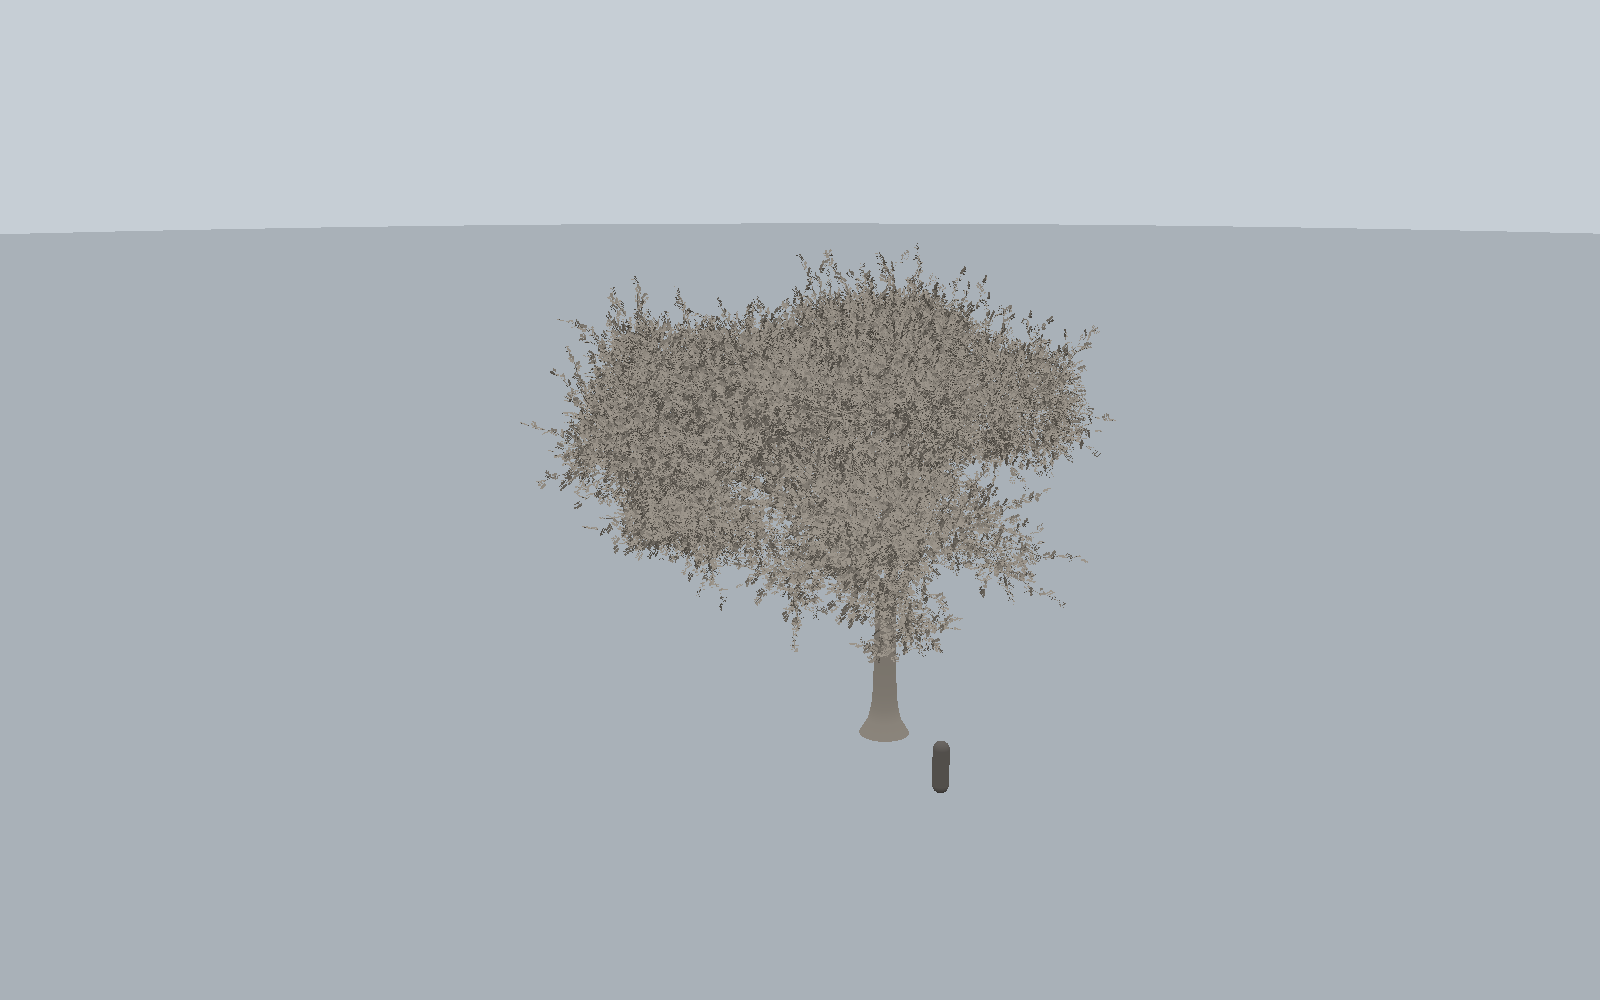
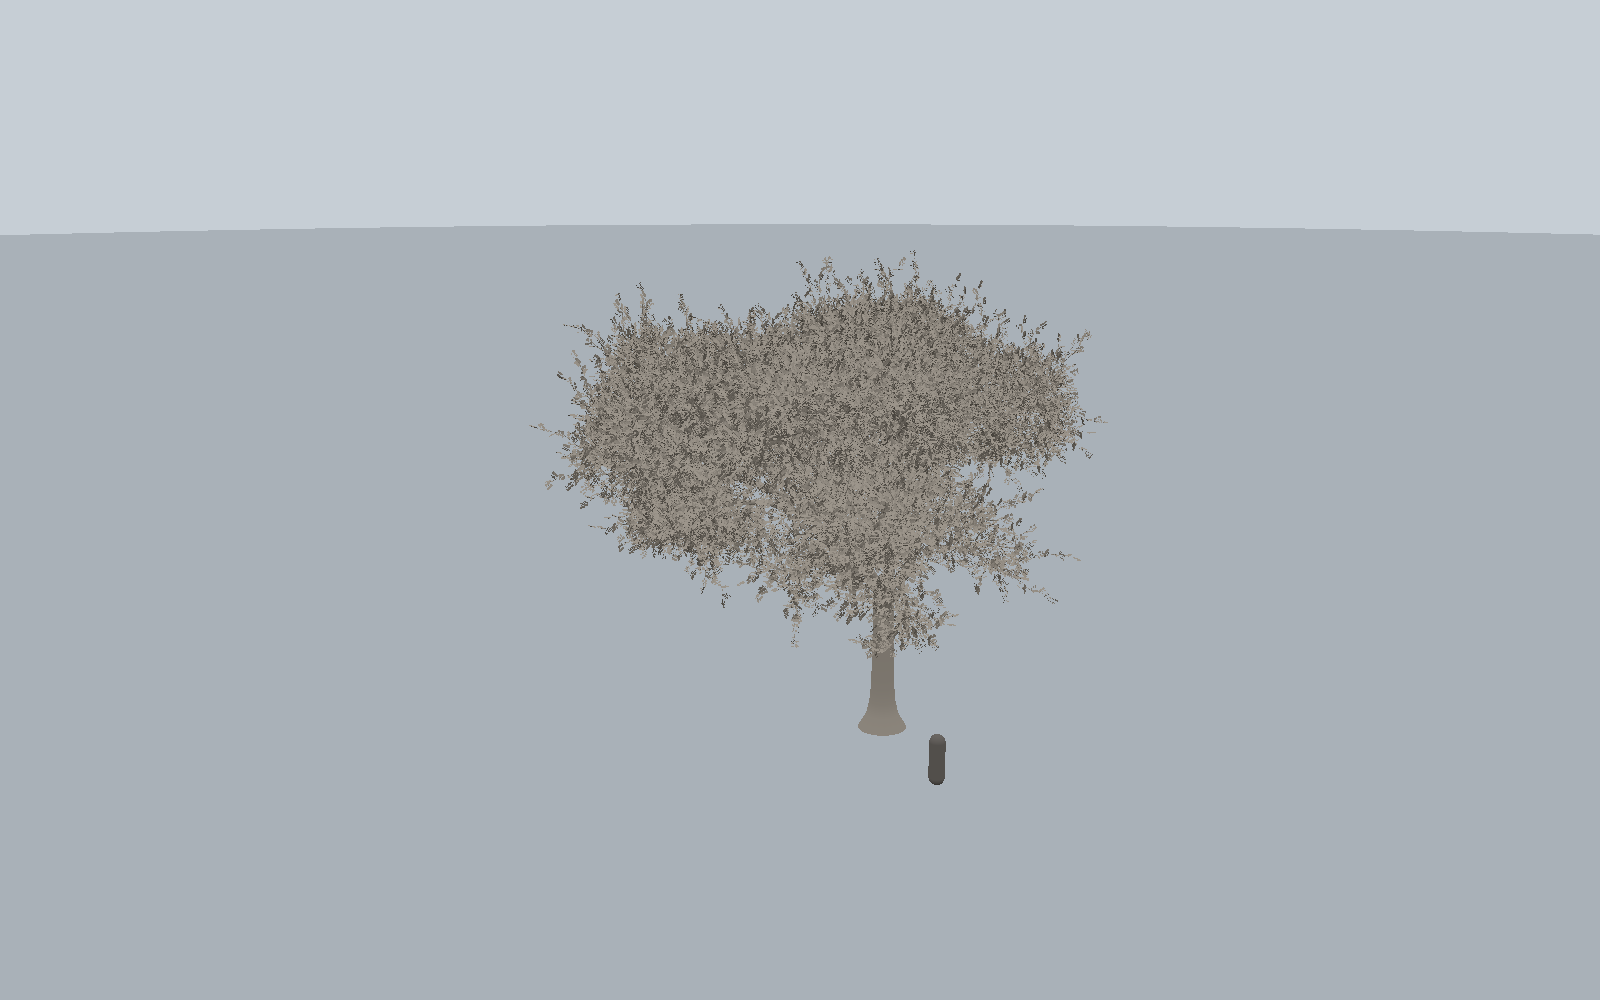
feat(render): tighten the hero pose to the owner's eye
The pose fits every corner of the bounds inside the frame with a 1.15 margin
and nothing else, solved corner by corner; the orbit stand-off is gone. The
margin test pins the tightest corner on the margin line at four aspects.
Stills and native timing re-rendered; owner verdicts and the framing decision
recorded in the fn22 evidence report.

Claude-Session: https://claude.ai/code/session_01HLZWrgghubbS3KdrFDqTp9

Changed region(s): [[0.3438, 0.248, 0.6875, 0.682], [0.5312, 0.713, 0.5938, 0.806]]

diff --git a/crates/telperion-render/src/camera.rs b/crates/telperion-render/src/camera.rs
@@ -5,9 +5,11 @@ use telperion_core::{math::Vec3, surface::Bounds};
 /// Vertical field of view, degrees. Narrow enough that the perspective does not
 /// editorialise about the trunk, wide enough to stand at a believable distance.
 pub const FIELD_OF_VIEW: f64 = 38.0;
-/// Air around the subject: a quarter again its own extent, so it stays clear of
-/// every edge while it is orbited.
-pub const FRAME_MARGIN: f64 = 1.3;
+/// Air around the subject at the hero pose: the tightest corner sits this far
+/// out from the picture's centre, as a fraction of the half-frame, so the tree
+/// fills the frame and the wheel is how a hand pulls back to orbit it. The
+/// owner judged the old orbit stand-off too far away (2026-09-09).
+pub const FRAME_MARGIN: f64 = 1.15;
 /// Where the camera stands as a direction from the subject's centre: a
 /// three-quarter view from the front right, a little above the middle. Only the
 /// angle is authored; the distance is solved.
@@ -38,26 +40,49 @@ impl Camera {
     }
 }
 
-/// The pose that judges a tree of these bounds at this aspect: framed on what
-/// is actually there, far enough back that it fits both ways with the margin,
-/// and never underground however low the subject's centre sits.
+/// The eight corners of a box, the points a frame has to hold.
+fn corners(bounds: Bounds) -> [Vec3; 8] {
+    let (lo, hi) = (bounds.min, bounds.max);
+    [
+        Vec3::new(lo.x, lo.y, lo.z),
+        Vec3::new(hi.x, lo.y, lo.z),
+        Vec3::new(lo.x, hi.y, lo.z),
+        Vec3::new(hi.x, hi.y, lo.z),
+        Vec3::new(lo.x, lo.y, hi.z),
+        Vec3::new(hi.x, lo.y, hi.z),
+        Vec3::new(lo.x, hi.y, hi.z),
+        Vec3::new(hi.x, hi.y, hi.z),
+    ]
+}
+
+/// The pose that judges a tree of these bounds at this aspect: every corner of
+/// the bounds inside the frame with the margin and no more, solved corner by
+/// corner so a near corner that subtends more is what sets the distance, and
+/// never underground however low the subject's centre sits.
 pub fn hero_pose(bounds: Bounds, aspect: f64, ground_reach: f64) -> Camera {
     let size = bounds.max - bounds.min;
     let centre = (bounds.min + bounds.max) * 0.5;
 
+    // The picture's axes at the hero direction, the same frame `look_at` builds.
+    let back = FRAME_DIRECTION.normalized();
+    let right = Vec3::Y.cross(back).normalized();
+    let up = back.cross(right);
     // The vertical half-angle is the camera's own; the horizontal one is that
     // times the aspect, so a wide viewport pulls in and a tall one pulls back.
-    let half_angle = FIELD_OF_VIEW.to_radians() / 2.0;
-    let across = size.x.max(size.z) / 2.0;
-    let distance = (size.y / 2.0 / half_angle.tan())
-        .max(across / (half_angle.tan() * aspect.max(0.1)))
-        * FRAME_MARGIN;
-
-    let solved = distance + size.length() / 2.0;
+    let tangent = (FIELD_OF_VIEW.to_radians() / 2.0).tan();
+    let solved = corners(bounds)
+        .iter()
+        .map(|corner| {
+            let offset = *corner - centre;
+            let need = (offset.dot(up).abs() / tangent)
+                .max(offset.dot(right).abs() / (tangent * aspect.max(0.1)));
+            offset.dot(back) + need * FRAME_MARGIN
+        })
+        .fold(0.0, f64::max);
     // A subject with no extent at all leaves nothing to solve, and the eye
     // would land on the target with no direction to look along.
     let reach = if solved > 0.0 { solved } else { NEAR * 2.0 };
-    let mut position = centre + FRAME_DIRECTION.normalized() * reach;
+    let mut position = centre + back * reach;
     // The eye stands on the floor at least, and at a person's eye height for
     // anything taller than a person. A leaf is not looked at from 1.8 m, so
     // for a subject shorter than the figure the direction alone places it.
@@ -132,20 +157,6 @@ fn multiply(a: &[f64; 16], b: &[f64; 16]) -> [f32; 16] {
 mod tests {
     use super::*;
 
-    fn corners(bounds: Bounds) -> [Vec3; 8] {
-        let (lo, hi) = (bounds.min, bounds.max);
-        [
-            Vec3::new(lo.x, lo.y, lo.z),
-            Vec3::new(hi.x, lo.y, lo.z),
-            Vec3::new(lo.x, hi.y, lo.z),
-            Vec3::new(hi.x, hi.y, lo.z),
-            Vec3::new(lo.x, lo.y, hi.z),
-            Vec3::new(hi.x, lo.y, hi.z),
-            Vec3::new(lo.x, hi.y, hi.z),
-            Vec3::new(hi.x, hi.y, hi.z),
-        ]
-    }
-
     /// Clip-space x, y and depth of a world point through this view-projection.
     fn project(view_projection: &[f32; 16], p: Vec3) -> (f64, f64, f64) {
         let v = [p.x as f32, p.y as f32, p.z as f32, 1.0];
@@ -161,15 +172,6 @@ mod tests {
         Bounds {
             min: Vec3::new(-9.4, 0.0, -8.1),
             max: Vec3::new(8.8, 22.6, 9.7),
-        }
-    }
-
-    /// The same pose turned around the subject, which is what the margin is
-    /// for: the tree is orbited, and it may not leave the frame on the way.
-    fn orbited(camera: &Camera, angle: f64) -> Camera {
-        Camera {
-            position: camera.target + (camera.position - camera.target).rotate(Vec3::Y, angle),
-            ..*camera
         }
     }
 
@@ -193,26 +195,26 @@ mod tests {
     }
 
     #[test]
-    fn the_margin_keeps_the_subject_clear_all_the_way_round() {
-        // Solved for a fit at the subject's centre plane alone, the near
-        // corners of a turned subject swing out past the edge; the margin is
-        // the air that stops them.
+    fn the_margin_is_the_only_air_around_the_subject() {
+        // The tightest corner sits exactly on the margin line: any further
+        // back and the tree is smaller than the rule says, any closer and a
+        // corner leaves the frame.
         for aspect in [0.6, 1.0, 16.0 / 9.0, 3.0] {
-            let hero = hero_pose(oak_bounds(), aspect, crate::GROUND_REACH);
-            for step in 0..24 {
-                let angle = std::f64::consts::TAU * f64::from(step) / 24.0;
-                let camera = orbited(&hero, angle);
-                let view_projection = camera.view_projection(aspect);
-                for corner in corners(oak_bounds()) {
+            let camera = hero_pose(oak_bounds(), aspect, crate::GROUND_REACH);
+            let view_projection = camera.view_projection(aspect);
+            let tightest = corners(oak_bounds())
+                .iter()
+                .map(|&corner| {
                     let (x, y, _) = project(&view_projection, corner);
-                    assert!(
-                        x.abs() <= 1.0 && y.abs() <= 1.0,
-                        "corner {corner:?} left the frame at aspect {aspect}, \
-                         {} degrees round: {x}, {y}",
-                        angle.to_degrees()
-                    );
-                }
-            }
+                    x.abs().max(y.abs())
+                })
+                .fold(0.0, f64::max);
+            assert!(
+                (tightest - 1.0 / FRAME_MARGIN).abs() < 2e-3,
+                "the tightest corner sits at {tightest} of the half-frame at aspect \
+                 {aspect}; the margin says {}",
+                1.0 / FRAME_MARGIN
+            );
         }
     }
 

diff --git a/.flow/evidence/fn22/REPORT.md b/.flow/evidence/fn22/REPORT.md
@@ -110,25 +110,20 @@ minutes, which is why the canvas hash moves between polls while the tree does
 not. The record counts them rather than hiding them, and the claim it makes is
 unaffected - one device, one canvas, no rebuild.
 
-## A note on the framing, for the owner's eye
+## Framing, after the owner's verdict
 
-The tree occupies roughly half the frame height in both stills, which is looser
-than the framing margin's own words suggest. This is faithful, not broken: the
-Rust `hero_pose` is a port of the harness's rule at `harness/stage.ts:667-680`,
-stand-off included, so a browser frame and a headless still of the same tree are
-the same picture by construction.
-
-The looseness is in the rule itself. The margin solves a distance that fits the
-subject with a quarter again its extent, and then adds half the subject's own
-diagonal on top as orbit clearance. On the oak fixture the camera tests use
-(18.2 x 22.6 x 17.8 m) that is a 42.7 m solve plus a 17.0 m stand-off, and the
-tree's height then covers 55% of the frame rather than the 77% the margin alone
-would give. Most of the stand-off is load-bearing: an all-angle fit on the
-subject's bounding sphere needs 52.3 m with no margin left, so tightening to the
-orbit-safe floor would recover 55% to 63% and no more, at the cost of the
-clearance the orbit test pins. Framing the tree larger means changing the rule
-for both renderers - a decision about the composition, not a defect in the port -
-so nothing was changed here.
+The first stills framed the tree at about half the frame height, a faithful port
+of the old harness rule with its orbit stand-off. The owner judged that too far
+away (2026-09-09), so the rule changed rather than the port: the hero pose now
+fits every corner of the subject's bounds inside the frame with a margin of 1.15
+and nothing else, solved corner by corner so the near corner that subtends most
+is the one that sets the distance. The tightest corner sits exactly on the margin
+line, which a unit test pins at four aspects. Orbiting can now carry a corner
+past the edge; the wheel is how a hand pulls back, and the orbit's travel limits
+scale from the framed distance as before. The stills and native timing records
+above were re-rendered at the new pose; the browser rows predate it, and stand
+because the frame is vertex-bound (see the probe below) and does not move with
+how much of the picture the tree covers.
 
 ## Where the spruce frame goes: a resolution probe
 
@@ -150,8 +145,12 @@ deliberately; the stills above are what is being judged.
 
 ### Oregon white oak
 
-> _verdict:_
+> _verdict (owner, 2026-09-09):_ it looks good, almost the same as the previous render in JS, just slightly darker.
 
 ### Norway spruce
 
-> _verdict:_
+> _verdict (owner, 2026-09-09):_ reads as a spruce.
+
+### Framing
+
+> _decision (owner, 2026-09-09):_ the camera is too far away in these stills; tighten the hero pose. The faithful port of the old rule is not the composition wanted.
